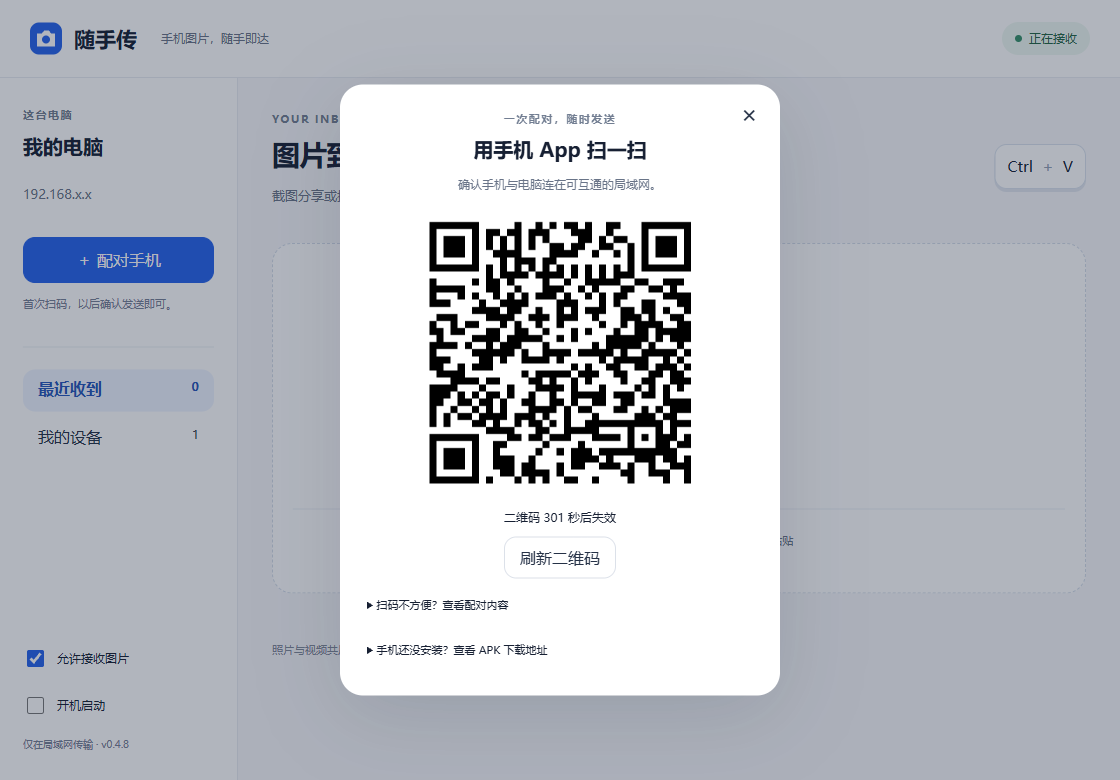
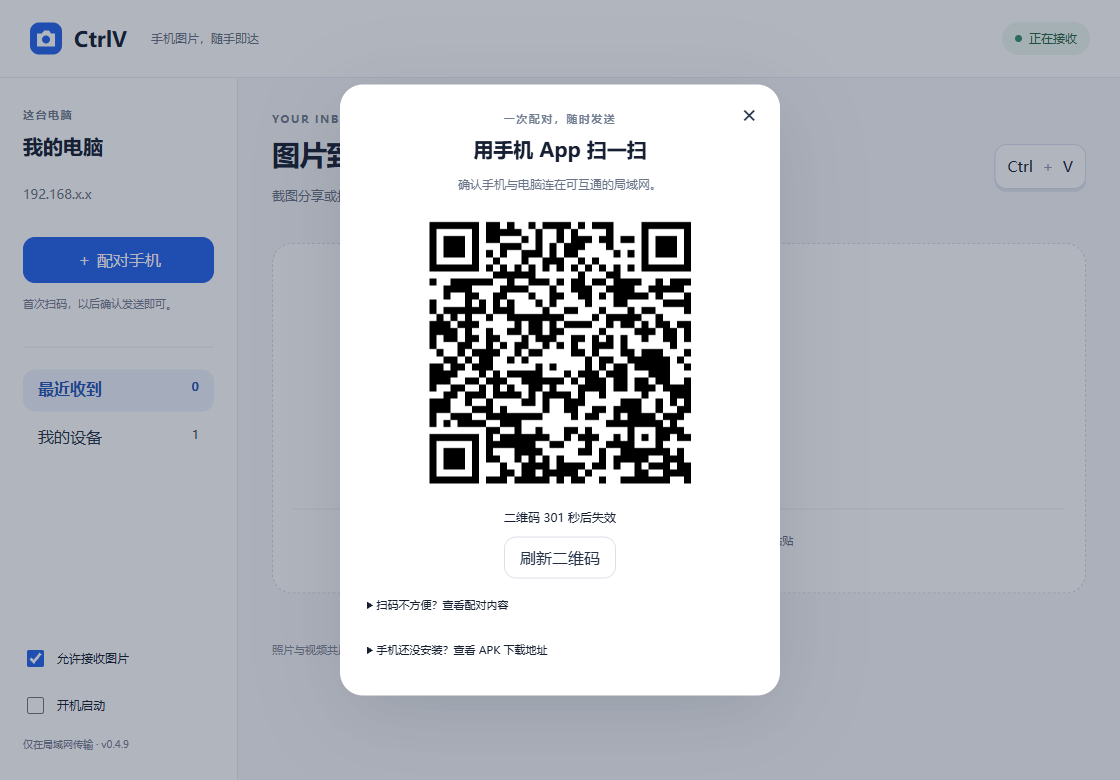
Rename Windows and Android to CtrlV for 0.4.9

Changed region(s): [[0.375, 0.2769, 0.625, 0.6462], [0.0625, 0.0308, 0.25, 0.0615]]

diff --git a/apps/desktop/src/main.ts b/apps/desktop/src/main.ts
@@ -11,7 +11,10 @@ import {Receiver, addresses, isPrivate} from './receiver';
 import type {DesktopState, Settings, Transfer} from './types';
 import {clipboardSequence, verifyClipboard, verifyClipboardFiles} from './windowsClipboard';
 
-app.setName('随手传');
+app.setName('CtrlV');
+// Keep the existing identity, pairing credentials and cache when the display name changes.
+app.setPath('userData', path.join(app.getPath('appData'), '随手传'));
+app.setAppUserModelId('cn.local.imagebridge');
 const testOutput = process.argv.find(value => value.startsWith('--self-test='))?.slice(12);
 const testDirectory = process.argv.find(value => value.startsWith('--data-dir='))?.slice(11);
 if (testDirectory) app.setPath('userData', path.resolve(testDirectory));
@@ -67,7 +70,7 @@ function secure(view: BrowserWindow) {
 }
 function showWindow() {
   if (!window) {
-    window = new BrowserWindow({...options(), width: 1060, height: 760, minWidth: 780, minHeight: 600, title: '随手传'});
+    window = new BrowserWindow({...options(), width: 1060, height: 760, minWidth: 780, minHeight: 600, title: 'CtrlV'});
     secure(window);
     window.on('close', event => {if (!quitting) {event.preventDefault(); window?.hide();}});
     void window.loadFile(path.join(__dirname, 'renderer/index.html'));
@@ -98,6 +101,15 @@ function getTransfer(id: unknown) {
   if (item?.cacheExpired || !item?.imagePath || !fs.existsSync(item.imagePath)) throw new Error('素材缓存已被清理');
   return item;
 }
+function updateLoginItem(openAtLogin: boolean) {
+  const legacyPath = path.join(path.dirname(process.execPath), '随手传.exe');
+  for (const item of app.getLoginItemSettings({path: legacyPath}).launchItems) {
+    if (item.scope === 'user' && path.resolve(item.path).toLowerCase() === legacyPath.toLowerCase()) {
+      app.setLoginItemSettings({openAtLogin: false, name: item.name});
+    }
+  }
+  app.setLoginItemSettings({openAtLogin, name: 'CtrlV', args: ['--hidden']});
+}
 function registerIpc() {
   const handlers: Record<string, (...args: unknown[]) => unknown> = {
     state,
@@ -112,7 +124,7 @@ function registerIpc() {
       if (typeof settings.receiving === 'boolean') store.state.settings.receiving = settings.receiving;
       if (typeof settings.launchAtLogin === 'boolean') {
         store.state.settings.launchAtLogin = settings.launchAtLogin;
-        app.setLoginItemSettings({openAtLogin: settings.launchAtLogin, args: ['--hidden']});
+        updateLoginItem(settings.launchAtLogin);
       }
       store.save(); updateTray(); changed();
     },
@@ -138,7 +150,7 @@ function registerIpc() {
         return;
       }
       const video = item.mime === 'video/mp4';
-      const result = await dialog.showSaveDialog({defaultPath: path.join(app.getPath(video ? 'videos' : 'pictures'), '随手传-' + new Date(item.createdAt).toISOString().replace(/[:.]/g, '-') + (video ? '.mp4' : '.png')), filters: [{name: video ? 'MP4 视频' : 'PNG 图片', extensions: [video ? 'mp4' : 'png']}]});
+      const result = await dialog.showSaveDialog({defaultPath: path.join(app.getPath(video ? 'videos' : 'pictures'), 'CtrlV-' + new Date(item.createdAt).toISOString().replace(/[:.]/g, '-') + (video ? '.mp4' : '.png')), filters: [{name: video ? 'MP4 视频' : 'PNG 图片', extensions: [video ? 'mp4' : 'png']}]});
       if (!result.canceled && result.filePath) {
         const current = getTransfer(id); const release = store.pin(current.requestId);
         try {await fs.promises.copyFile(current.imagePath!, result.filePath);} finally {release(); void store.prune().then(() => changed());}
@@ -153,29 +165,30 @@ function registerIpc() {
 }
 function updateTray() {
   if (!tray) return;
-  tray.setToolTip('随手传 · ' + (store.state.settings.receiving ? '正在接收' : '接收已暂停'));
+  tray.setToolTip('CtrlV · ' + (store.state.settings.receiving ? '正在接收' : '接收已暂停'));
   tray.setContextMenu(Menu.buildFromTemplate([
-    {label: '打开随手传', click: showWindow},
+    {label: '打开 CtrlV', click: showWindow},
     {label: '接收手机图片', type: 'checkbox', checked: store.state.settings.receiving, click: item => {store.state.settings.receiving = item.checked; store.save(); changed(); updateTray();}},
     {type: 'separator'}, {label: '退出', click: () => {quitting = true; app.quit();}},
   ]));
 }
 async function startDownload() {
-  const apk = app.isPackaged ? path.join(process.resourcesPath, 'ImageBridge.apk') : path.resolve(__dirname, '../../../release/android/ImageBridge.apk');
+  const apk = app.isPackaged ? path.join(process.resourcesPath, 'CtrlV.apk') : path.resolve(__dirname, '../../../release/android/CtrlV.apk');
   if (!fs.existsSync(apk)) return;
   const key = randomBytes(16).toString('hex');
   downloadServer = http.createServer((req, res) => {
-    if (!isPrivate(req.socket.remoteAddress ?? '') || req.url !== '/' + key + '/ImageBridge.apk' || req.method !== 'GET') {res.writeHead(404); res.end(); return;}
-    res.writeHead(200, {'Content-Type': 'application/vnd.android.package-archive', 'Content-Disposition': 'attachment; filename="ImageBridge.apk"', 'Content-Length': fs.statSync(apk).size});
+    if (!isPrivate(req.socket.remoteAddress ?? '') || req.url !== '/' + key + '/CtrlV.apk' || req.method !== 'GET') {res.writeHead(404); res.end(); return;}
+    res.writeHead(200, {'Content-Type': 'application/vnd.android.package-archive', 'Content-Disposition': 'attachment; filename="CtrlV.apk"', 'Content-Length': fs.statSync(apk).size});
     fs.createReadStream(apk).pipe(res);
   });
   await new Promise<void>(resolve => {downloadServer!.once('error', () => resolve()); downloadServer!.listen(43822, '0.0.0.0', resolve);});
   const address = addresses()[0];
-  if (address && downloadServer.listening) downloadUrl = `http://${address}:43822/${key}/ImageBridge.apk`;
+  if (address && downloadServer.listening) downloadUrl = `http://${address}:43822/${key}/CtrlV.apk`;
 }
 async function start() {
   if (!safeStorage.isEncryptionAvailable()) throw new Error('Windows 凭据加密不可用，无法安全保存配对信息');
   store = new Store(app.getPath('userData'), {seal: value => safeStorage.encryptString(value).toString('base64'), open: value => safeStorage.decryptString(Buffer.from(value, 'base64'))});
+  if (app.isPackaged && !testDirectory && !testOutput) updateLoginItem(store.state.settings.launchAtLogin);
   receiver = new Receiver(store, copyImage, changed, copyFiles);
   try {await receiver.start(testOutput ? 0 : 43821);} catch (error) {if (testOutput) throw error; await receiver.start(0); warning = '默认端口被占用，已使用备用端口；请刷新二维码。';}
   if (testOutput) {
@@ -204,6 +217,6 @@ if (single) void app.whenReady().then(start).catch(error => {
   fs.mkdirSync(app.getPath('userData'), {recursive: true});
   fs.appendFileSync(path.join(app.getPath('userData'), 'error.log'), new Date().toISOString() + ' ' + message + '\n');
   if (testOutput) fs.writeFileSync(testOutput, JSON.stringify({error: message}));
-  else dialog.showErrorBox('随手传启动失败', message);
+  else dialog.showErrorBox('CtrlV 启动失败', message);
   app.exit(1);
 });

diff --git a/apps/mobile/src/App.tsx b/apps/mobile/src/App.tsx
@@ -207,9 +207,9 @@ function Screen() {
         <ScreenCaptureButton disabled={busy || recording || modeMotion.transitioning} onPress={() => void run(async () => {if (!target) {setDevices(true); return;} await bridge.startScreenCapture();})}/>
       </View>}
       {photo && <View style={s.previewMeta}><Text style={s.metaTitle}>{video ? '视频' : '照片'}</Text><Text style={s.metaDetail}>{photo.width} × {photo.height} · {(photo.bytes / 1024 / 1024).toFixed(1)} MB{photo.durationMs ? ' · ' + (photo.durationMs / 1000).toFixed(1) + ' 秒' : ''}</Text></View>}
-      <Text style={s.footer}>{photo || reviewPhoto ? '随手传 · 仅局域网传输' : photos.length > 0 ? '可切换相册或截屏 · 这组照片会保留' : '左滑连拍 · 右滑拍摄'}</Text>
+      <Text style={s.footer}>{photo || reviewPhoto ? 'CtrlV · 仅局域网传输' : photos.length > 0 ? '可切换相册或截屏 · 这组照片会保留' : '左滑连拍 · 右滑拍摄'}</Text>
     </View>
-    <Modal visible={devices} transparent animationType="slide" onRequestClose={() => setDevices(false)}><View style={s.backdrop}><SafeAreaView style={s.sheet}><View style={s.sheetTop}><Text style={s.sheetTitle}>连接电脑</Text><Pressable onPress={() => setDevices(false)} style={s.topAction} accessibilityLabel="关闭设备面板"><Text style={s.cross}>×</Text></Pressable></View><Text style={s.sheetDescription}>电脑打开随手传，点击「配对手机」。手机扫描二维码后，确认电脑名称。</Text><ScrollView style={s.deviceList}>{state.devices.map(device => <View key={device.deviceId} style={s.deviceRow}><Pressable style={s.deviceChoice} onPress={() => void run(async () => {await bridge.selectDevice(device.deviceId); setDevices(false);})}><Text style={s.deviceName}>{device.name}{device.deviceId === state.defaultId ? '  ✓' : ''}</Text><Text style={s.deviceIp}>{device.addresses.join(' · ')}</Text></Pressable><Pressable style={s.removeButton} onPress={() => Alert.alert('移除电脑', '移除「' + device.name + '」？', [{text: '取消'}, {text: '移除', style: 'destructive', onPress: () => void run(async () => {await bridge.removeDevice(device.deviceId);})}])}><Text style={s.secondaryText}>移除</Text></Pressable></View>)}</ScrollView><Pressable style={s.pairButton} disabled={busy} onPress={() => void run(scan)}><Text style={s.pairText}>扫描配对二维码</Text></Pressable><Pressable style={s.settingsButton} onPress={() => setManual(!manual)}><Text style={s.secondaryText}>手动输入配对内容</Text></Pressable>{manual && <><TextInput style={s.input} value={uri} onChangeText={setUri} autoCapitalize="none" multiline placeholder="imagebridge://pair?data=…" placeholderTextColor="#777"/><Pressable style={s.pairButton} onPress={() => confirmPair(uri.trim())}><Text style={s.pairText}>确认配对</Text></Pressable></>}{!!error && <Text style={s.sheetError}>{error}</Text>}</SafeAreaView></View></Modal>
+    <Modal visible={devices} transparent animationType="slide" onRequestClose={() => setDevices(false)}><View style={s.backdrop}><SafeAreaView style={s.sheet}><View style={s.sheetTop}><Text style={s.sheetTitle}>连接电脑</Text><Pressable onPress={() => setDevices(false)} style={s.topAction} accessibilityLabel="关闭设备面板"><Text style={s.cross}>×</Text></Pressable></View><Text style={s.sheetDescription}>电脑打开CtrlV，点击「配对手机」。手机扫描二维码后，确认电脑名称。</Text><ScrollView style={s.deviceList}>{state.devices.map(device => <View key={device.deviceId} style={s.deviceRow}><Pressable style={s.deviceChoice} onPress={() => void run(async () => {await bridge.selectDevice(device.deviceId); setDevices(false);})}><Text style={s.deviceName}>{device.name}{device.deviceId === state.defaultId ? '  ✓' : ''}</Text><Text style={s.deviceIp}>{device.addresses.join(' · ')}</Text></Pressable><Pressable style={s.removeButton} onPress={() => Alert.alert('移除电脑', '移除「' + device.name + '」？', [{text: '取消'}, {text: '移除', style: 'destructive', onPress: () => void run(async () => {await bridge.removeDevice(device.deviceId);})}])}><Text style={s.secondaryText}>移除</Text></Pressable></View>)}</ScrollView><Pressable style={s.pairButton} disabled={busy} onPress={() => void run(scan)}><Text style={s.pairText}>扫描配对二维码</Text></Pressable><Pressable style={s.settingsButton} onPress={() => setManual(!manual)}><Text style={s.secondaryText}>手动输入配对内容</Text></Pressable>{manual && <><TextInput style={s.input} value={uri} onChangeText={setUri} autoCapitalize="none" multiline placeholder="imagebridge://pair?data=…" placeholderTextColor="#777"/><Pressable style={s.pairButton} onPress={() => confirmPair(uri.trim())}><Text style={s.pairText}>确认配对</Text></Pressable></>}{!!error && <Text style={s.sheetError}>{error}</Text>}</SafeAreaView></View></Modal>
   </SafeAreaView>;
 }
 export default function App() {return <SafeAreaProvider><Screen/></SafeAreaProvider>;}

diff --git a/apps/desktop/src/ui.tsx b/apps/desktop/src/ui.tsx
@@ -26,7 +26,7 @@ function App() {
       {item?.thumbnail && <img src={item.thumbnail} alt="刚收到的素材"/>}<div><strong><span className="dot"/>{item?.imageCount ? `${item.imageCount} 张图片已复制` : item?.mime === 'video/mp4' ? '视频文件已复制' : '图片已复制'}</strong><p>{item?.mime === 'video/mp4' ? '可粘贴到文件夹或支持视频的软件' : '回到输入框，按 Ctrl+V'}</p><small>{item?.mime === 'video/mp4' ? '点击播放视频' : '点击查看大图'}</small></div></div>;
   }
   return <div className="shell">
-    <header><div className="brand"><Mark/><strong>随手传</strong><span>手机图片，随手即达</span></div><span className={'status ' + (!state.settings.receiving ? 'paused' : '')}><i/>{state.settings.receiving ? '正在接收' : '接收已暂停'}</span></header>
+    <header><div className="brand"><Mark/><strong>CtrlV</strong><span>手机图片，随手即达</span></div><span className={'status ' + (!state.settings.receiving ? 'paused' : '')}><i/>{state.settings.receiving ? '正在接收' : '接收已暂停'}</span></header>
     <main className="layout"><aside>
       <div className="eyebrow">这台电脑</div><h2>{state.name}</h2><p className="muted">{state.addresses.join(' / ') || '尚未连接局域网'}</p>
       <button className="primary" disabled={busy} onClick={() => void action(async () => setPairing(await window.bridge.pair()))}>＋ 配对手机</button>
@@ -40,7 +40,7 @@ function App() {
       <div className="section-head"><div><div className="eyebrow">{tab === 'images' ? 'YOUR INBOX' : 'CONNECTED DEVICES'}</div><h1>{tab === 'images' ? '图片到了，直接粘贴。' : '只接收你的设备。'}</h1><p className="muted">{tab === 'images' ? '截图分享或拍照确认后，在支持图片的输入框按 Ctrl+V。' : '配对后无需逐张确认。移除设备后，需要重新扫码。'}</p></div><span className="shortcut">Ctrl <b>+</b> V</span></div>
       {(error || state.warning) && <div role="alert" className="alert">{error || state.warning}</div>}
       {notice && <div role="status" className="notice" onClick={() => setNotice('')}>{notice}</div>}
-      {tab === 'images' && !state.transfers.length && <div className="empty"><div className="empty-icon"><Mark/></div><h3>等待第一张图片</h3><p>手机系统截图 → 分享到「随手传」<br/>或者打开 App，拍一张照片。</p><div className="steps"><span>01 扫码配对</span><span>02 手机发送</span><span>03 电脑粘贴</span></div></div>}
+      {tab === 'images' && !state.transfers.length && <div className="empty"><div className="empty-icon"><Mark/></div><h3>等待第一张图片</h3><p>手机系统截图 → 分享到「CtrlV」<br/>或者打开 App，拍一张照片。</p><div className="steps"><span>01 扫码配对</span><span>02 手机发送</span><span>03 电脑粘贴</span></div></div>}
       {tab === 'images' && <div className="gallery">{state.transfers.map(item => <article key={item.requestId} className="photo"><button className="image-button" disabled={!item.thumbnail} onClick={() => void action(() => window.bridge.open(item.requestId))}>{item.thumbnail ? <img src={item.thumbnail} alt={`${item.clientName} 发来的图片`}/> : <span>{labels[item.status]}</span>}</button><div className="photo-info"><strong>{item.imageCount ? `${item.imageCount} 张图集 · ` : ''}{labels[item.status]}</strong><span>{new Date(item.createdAt).toLocaleTimeString('zh-CN', {hour: '2-digit', minute: '2-digit'})}</span></div><p>{item.clientName} · {item.imageCount ? '一次 Ctrl+V 粘贴整组' : item.width ? `${item.width} × ${item.height}` : '等待处理'}</p>{item.error && <p className="item-error">{item.error}</p>}<div className="photo-actions"><button disabled={busy || !item.imagePath} onClick={() => void action(() => window.bridge.copy(item.requestId), '已重新复制，可以粘贴了')}>重新复制</button><button disabled={busy || !item.imagePath} onClick={() => void action(() => window.bridge.save(item.requestId))}>另存为</button></div></article>)}</div>}
       {tab === 'devices' && <div className="devices">{!state.devices.length && <div className="empty"><h3>还没有配对手机</h3><p>点击左侧「配对手机」，用 App 扫描二维码。</p></div>}{state.devices.map(device => <div className="device" key={device.clientId}><div className="device-icon">▯</div><div><strong>{device.name}</strong><p>配对于 {new Date(device.pairedAt).toLocaleDateString('zh-CN')}</p></div><button disabled={busy} onClick={() => {if (confirm(`移除 ${device.name}？之后需要重新扫码。`)) void action(() => window.bridge.revoke(device.clientId));}}>移除</button></div>)}</div>}
       <footer>照片与视频共用 100 MB 临时缓存 · 空间不足时自动清理最早收到的素材</footer>

diff --git a/apps/mobile/android/app/src/main/java/cn/local/imagebridge/ScreenCaptureService.kt b/apps/mobile/android/app/src/main/java/cn/local/imagebridge/ScreenCaptureService.kt
@@ -62,7 +62,7 @@ class ScreenCaptureService : Service() {
         val stop = PendingIntent.getService(this, 7, Intent(this, ScreenCaptureService::class.java).setAction("STOP"), PendingIntent.FLAG_UPDATE_CURRENT or PendingIntent.FLAG_IMMUTABLE)
         val recording = screenRecorder != null
         val seconds = ((SystemClock.elapsedRealtime() - recordStarted) / 1000).coerceIn(0, 30)
-        return Notification.Builder(this, "capture").setSmallIcon(android.R.drawable.ic_menu_camera).setContentTitle(if (recording) "随手传 · 录屏 ${seconds}s / 30s" else "随手传 · 连续截屏")
+        return Notification.Builder(this, "capture").setSmallIcon(android.R.drawable.ic_menu_camera).setContentTitle(if (recording) "CtrlV · 录屏 ${seconds}s / 30s" else "CtrlV · 连续截屏")
             .setContentText(if (recording) "点悬浮「停止」可结束 · 完成后先预览" else "已截 ${collected.size} 张 · 点悬浮「截一张」，查看后确认发送")
             .setContentIntent(stop).setOngoing(true).addAction(Notification.Action.Builder(null, "结束并预览", stop).build()).build()
     }

diff --git a/apps/desktop/src/index.html b/apps/desktop/src/index.html
@@ -1,2 +1,2 @@
 <!doctype html>
-<html lang="zh-CN"><head><meta charset="UTF-8"><meta name="viewport" content="width=device-width, initial-scale=1.0"><meta http-equiv="Content-Security-Policy" content="default-src 'none'; script-src 'self'; style-src 'self'; img-src 'self' data:; font-src 'self'; connect-src 'none'"><title>随手传</title><link rel="stylesheet" href="ui.css"></head><body><div id="root"></div><script src="ui.js"></script></body></html>
+<html lang="zh-CN"><head><meta charset="UTF-8"><meta name="viewport" content="width=device-width, initial-scale=1.0"><meta http-equiv="Content-Security-Policy" content="default-src 'none'; script-src 'self'; style-src 'self'; img-src 'self' data:; font-src 'self'; connect-src 'none'"><title>CtrlV</title><link rel="stylesheet" href="ui.css"></head><body><div id="root"></div><script src="ui.js"></script></body></html>

diff --git a/apps/mobile/android/app/src/main/java/cn/local/imagebridge/BridgeModule.kt b/apps/mobile/android/app/src/main/java/cn/local/imagebridge/BridgeModule.kt
@@ -71,7 +71,7 @@ class BridgeModule(private val context: ReactApplicationContext) : ReactContextB
     }
     @ReactMethod fun pair(uriText: String, promise: Promise) = work(promise) {
         val uri = Uri.parse(uriText)
-        require(uri.scheme == "imagebridge" && uri.host == "pair") { "请扫描随手传电脑端的配对二维码" }
+        require(uri.scheme == "imagebridge" && uri.host == "pair") { "请扫描CtrlV电脑端的配对二维码" }
         val invitation = JSONObject(uri.getQueryParameter("data") ?: "{}")
         require(invitation.getInt("v") == 1 && invitation.getLong("expiresAt") > System.currentTimeMillis()) { "二维码已过期，请在电脑端刷新" }
         val data = storage.read()

diff --git a/apps/mobile/android/app/src/main/java/cn/local/imagebridge/ScreenCaptureActivity.kt b/apps/mobile/android/app/src/main/java/cn/local/imagebridge/ScreenCaptureActivity.kt
@@ -27,7 +27,7 @@ class ScreenCaptureActivity : Activity() {
     }
     private fun requestOverlay() {
         if (!Settings.canDrawOverlays(this)) {
-            Toast.makeText(this, "请允许随手传显示悬浮按钮", Toast.LENGTH_LONG).show()
+            Toast.makeText(this, "请允许CtrlV显示悬浮按钮", Toast.LENGTH_LONG).show()
             startActivityForResult(Intent(Settings.ACTION_MANAGE_OVERLAY_PERMISSION, Uri.parse("package:$packageName")), 1)
         } else requestCapture()
     }

diff --git a/README.md b/README.md
@@ -1,10 +1,12 @@
-# 随手传 · 手机素材直达电脑剪贴板
+# CtrlV · 手机素材直达电脑剪贴板
 
-<img src="apps/mobile/android/app/src/main/res/mipmap-xxxhdpi/ic_launcher.png" alt="随手传相机图标" width="88" />
+<img src="apps/mobile/android/app/src/main/res/mipmap-xxxhdpi/ic_launcher.png" alt="CtrlV相机图标" width="88" />
 
 在 Android 手机上拍照、选图、连续截屏或录制短视频，通过局域网传到 Windows。电脑提示「已复制」后，按 **Ctrl+V** 就能把素材放进支持图片或文件的 AI 输入框、文档或其他软件。
 
-**当前版本：0.4.8。Windows 托盘接收端 + Android App，无需业务云服务器。**
+**当前版本：0.4.9。Windows 托盘接收端 + Android App，无需业务云服务器。**
+
+**名称约定：Android 与 Windows 为 CtrlV；未来 iPhone 版计划使用 CommandV，目前尚未上架 App Store。** 0.4.9 从原名「随手传」升级，沿用原配对和缓存。
 
 [下载安装包](https://github.com/Flechazo-YQ/suishouchuan/releases/latest) · [一步步使用与场景示例](docs/USER-GUIDE.md) · [逐版更新说明](CHANGELOG.md) · [开发与构建](docs/DEVELOPMENT.md)
 
@@ -16,10 +18,12 @@
 
 | 设备 | 下载文件 | 安装后做什么 |
 | --- | --- | --- |
-| Windows x64 电脑 | [ImageBridge-Setup-0.4.8.exe](https://github.com/Flechazo-YQ/suishouchuan/releases/download/v0.4.8/ImageBridge-Setup-0.4.8.exe) | 安装并打开「随手传」，留在系统托盘 |
-| Android arm64 手机 | [ImageBridge-0.4.8-android-arm64.apk](https://github.com/Flechazo-YQ/suishouchuan/releases/download/v0.4.8/ImageBridge-0.4.8-android-arm64.apk) | 用手机浏览器下载，按系统提示允许该来源安装 |
+| Windows x64 电脑 | [CtrlV-Setup-0.4.9.exe](https://github.com/Flechazo-YQ/suishouchuan/releases/download/v0.4.9/CtrlV-Setup-0.4.9.exe) | 安装并打开「CtrlV」，留在系统托盘 |
+| Android arm64 手机 | [CtrlV-0.4.9-android-arm64.apk](https://github.com/Flechazo-YQ/suishouchuan/releases/download/v0.4.9/CtrlV-0.4.9-android-arm64.apk) | 用手机浏览器下载，按系统提示允许该来源安装 |
 
-电脑安装完成后打开「随手传」，保持托盘运行；手机安装完成后打开 App，按提示允许相机权限。让两端连接到可互通的局域网，例如连接同一个家庭 Wi-Fi。电脑端应显示绿色的「正在接收」。
+电脑安装完成后打开「CtrlV」，保持托盘运行；手机安装完成后打开 App，按提示允许相机权限。让两端连接到可互通的局域网，例如连接同一个家庭 Wi-Fi。电脑端应显示绿色的「正在接收」。
+
+从「随手传」升级可直接覆盖安装，不需要卸载或重新配对。Windows 若弹出防火墙提示，允许 CtrlV 在当前局域网通信；旧规则只绑定旧程序文件，改名后需要允许新程序。
 
 Windows 安装包也内置 APK，可通过电脑配对面板中的局域网下载地址安装。发布页提供 SHA-256 校验文件；下载源码 ZIP 不是安装软件。
 
@@ -34,7 +38,7 @@ Android 最低声明支持 Android 8（API 26），当前真机验收设备为 A
 **电脑点击「配对手机」 → 手机点「扫描配对二维码」**（点击图片可查看大图）：
 
 <p>
-  <a href="docs/images/desktop-pairing.png"><img src="docs/images/desktop-pairing.png" alt="Windows 随手传的配对二维码窗口，左侧为配对手机按钮" width="520" /></a>
+  <a href="docs/images/desktop-pairing.png"><img src="docs/images/desktop-pairing.png" alt="Windows CtrlV的配对二维码窗口，左侧为配对手机按钮" width="520" /></a>
   <a href="docs/images/phone-pairing.png"><img src="docs/images/phone-pairing.png" alt="Android 连接电脑面板，下方为扫描配对二维码按钮，设备信息已隐藏" width="300" /></a>
 </p>
 
@@ -71,30 +75,30 @@ Android 最低声明支持 Android 8（API 26），当前真机验收设备为 A
 
 <img src="docs/images/ai-paste.png" alt="Codex 输入框中已经出现多张独立图片附件，当前可见编号01至06的一部分" width="800" />
 
-单张照片同样按一次 Ctrl+V；给 Word/WPS 配图时，把光标放在文档需要插图的位置再粘贴。若目标软件不接受图片粘贴，可在电脑端点「另存为」，再使用它的插入图片功能。随手传不会自动提交 AI 对话。
+单张照片同样按一次 Ctrl+V；给 Word/WPS 配图时，把光标放在文档需要插图的位置再粘贴。若目标软件不接受图片粘贴，可在电脑端点「另存为」，再使用它的插入图片功能。CtrlV不会自动提交 AI 对话。
 
-<sub>手机为 0.4.8 真机截图，私人设备信息已按授权裁剪或遮挡；电脑为 0.4.8 界面搭配演示数据；Codex 为实际粘贴验收截图的输入区。详见 [截图说明](docs/images/README.md)。</sub>
+<sub>手机为 0.4.8 真机截图，私人设备信息已按授权裁剪或遮挡；电脑为 0.4.9 界面搭配演示数据；Codex 为实际粘贴验收截图的输入区。详见 [截图说明](docs/images/README.md)。</sub>
 
 ## 原来怎么做，用了以后怎么做
 
-| 场景 | 原来的常见流程 | 用随手传后的流程 |
+| 场景 | 原来的常见流程 | 用CtrlV后的流程 |
 | --- | --- | --- |
-| 拍实物照片，让 AI 分析 | 手机拍照 → 微信文件传输助手 → 电脑微信打开图片 → 复制 → 粘贴到 AI | 随手传拍照 → 预览并确认上传 → 电脑 AI 输入框 Ctrl+V |
+| 拍实物照片，让 AI 分析 | 手机拍照 → 微信文件传输助手 → 电脑微信打开图片 → 复制 → 粘贴到 AI | CtrlV拍照 → 预览并确认上传 → 电脑 AI 输入框 Ctrl+V |
 | 截几个小程序页面，让 AI 对照布局 | 每页系统截图 → 整理相册 → 传到电脑 → 逐张添加附件 | 开启悬浮截屏 → 每页点「截一张」→ 查看整组 →「确认并发送」→ Ctrl+V |
 | 把已有的 10 张图发给 AI | 相册挑图 → 发微信 → 电脑下载整理 → 添加多个附件 | 左下相册图标 → 选 1–10 张并确认 → 自动传送 → Ctrl+V 粘贴独立图片 |
 | 给 Word/WPS 文档配一张图片 | 拍照 → 发微信 → 电脑另存为 → 文档插入图片 | 单张拍摄并上传 → 文档定位光标 → Ctrl+V；不接受图片粘贴时另存为后插入 |
 
-例如你在做商品页面：连续截下「首页、商品详情、下单页」，整组发到电脑，再在 AI 里粘贴三张图片，输入「请按这三个页面检查按钮间距和布局一致性」。随手传负责传图；提问内容和是否发送给 AI 由你决定。
+例如你在做商品页面：连续截下「首页、商品详情、下单页」，整组发到电脑，再在 AI 里粘贴三张图片，输入「请按这三个页面检查按钮间距和布局一致性」。CtrlV负责传图；提问内容和是否发送给 AI 由你决定。
 
 ## 手机上的入口
 
 - **拍摄**：短按快门拍照；长按录像，松手结束，最长 30 秒。预览左上「×」重拍，右上「✓」确认上传。
-- **相册**：快门左边的图片图标。选择 1–10 张，确认选择后自动发送；系统相册多选后分享给「随手传」也可用。
+- **相册**：快门左边的图片图标。选择 1–10 张，确认选择后自动发送；系统相册多选后分享给「CtrlV」也可用。
 - **连拍**：点模式标签，或向左滑动取景画面。连续点按快门，最多 10 张；点缩略图或「查看 N 张」预览，右上「确认并发送」一次完成。
 - **截屏 / 录屏**：快门右边的图标。授权后点浮窗「截一张」收集截图，「查看图片」回 App 预览。录屏有计时和停止按钮，最长 30 秒。
 - **连拍中临时做别的事**：已有照片也能进入相册或截屏/录屏。原连拍组保留，新素材单独处理；完成后恢复原组，也可点「待发 N 张 · 查看」来回切换。
 
-系统截图与随手传浮窗是两条入口：手机系统截图不会自动加入随手传图集。连续截多个页面请用浮窗「截一张」；发送已有系统截图请用相册选择或系统分享。
+系统截图与CtrlV浮窗是两条入口：手机系统截图不会自动加入CtrlV图集。连续截多个页面请用浮窗「截一张」；发送已有系统截图请用相册选择或系统分享。
 
 ## 到电脑后怎么粘贴
 
@@ -112,12 +116,14 @@ Android 最低声明支持 Android 8（API 26），当前真机验收设备为 A
 
 - 手机不向系统相册保存新拍素材。待发文件暂存在 App 私有目录，上传成功或明确放弃后删除；来源相册原图不受影响。
 - 多组待发素材只保留在当前运行会话中，**不是永久相册**；进程重启会清理遗留文件。失败供手动重试，不在离线很久后突然自动补发。
-- 电脑照片、视频和缩略图共用 **100 MB（100,000,000 字节）**，超限后在后台按接收先后删除旧素材。图集整组淘汰，当前随手传复制的文件受到保护。
+- 电脑照片、视频和缩略图共用 **100 MB（100,000,000 字节）**，超限后在后台按接收先后删除旧素材。图集整组淘汰，当前CtrlV复制的文件受到保护。
 - 单图最多 32 MiB、6400 万像素；每组最多 10 张且处理前后不超过 100 MB；录像/录屏最多 30 秒。
 
 例如已缓存 99.27 MB，再收到 1.5 MB，会从最早收到的素材开始清理，直到回到预算内。新素材先校验和写入剪贴板，再后台清理；在途文件、解码临时文件和文件占用可能造成短暂额外空间。重要素材请另存为，缓存不作为备份。[完整缓存规则](docs/CACHE-POLICY.md)
 
 ## 当前验证与边界
+
+0.4.9 已通过 27 项自动化测试、两端类型检查和安装包一致性检查。Windows 已覆盖安装，验证原配对/证书/设置/缓存保留、开机启动路径更新、内置 APK 下载及图片/十图文件剪贴板；Android 发行签名与旧版一致，当前设备调试连接恢复后继续覆盖安装验收。
 
 0.4.8 已实际安装验证：拍摄、图集、相册独立发送、连续截图、录屏主动停止、连拍保留与切换、电脑文件剪贴板和手机临时文件清理。27 项自动化测试通过。30 秒录屏上限在前版实机通过，本版未修改该原生逻辑。
 

diff --git a/docs/USER-GUIDE.md b/docs/USER-GUIDE.md
@@ -1,11 +1,11 @@
-# 随手传使用指南
+# CtrlV使用指南
 
-按 0.4.8 的按钮与行为说明。两端安装包在 [GitHub Releases](https://github.com/Flechazo-YQ/suishouchuan/releases/latest)。
+按 0.4.9 的按钮与行为说明。两端安装包在 [GitHub Releases](https://github.com/Flechazo-YQ/suishouchuan/releases/latest)。
 
 ## 1. 第一次安装和配对
 
-1. 电脑安装 `ImageBridge-Setup-0.4.8.exe`，打开随手传。关主窗口后仍在系统托盘接收；选择退出则停止接收。
-2. 手机浏览器下载 `ImageBridge-0.4.8-android-arm64.apk`，按 Android 提示允许当前来源安装。
+1. 电脑安装 `CtrlV-Setup-0.4.9.exe`，打开CtrlV。关主窗口后仍在系统托盘接收；选择退出则停止接收。
+2. 手机浏览器下载 `CtrlV-0.4.9-android-arm64.apk`，按 Android 提示允许当前来源安装。
 3. 两端连接同一可互通的局域网。电脑用网线、手机用 Wi-Fi 也可以，前提是路由器允许两者通信。
 4. 电脑点「配对手机」，手机点顶部设备栏 →「扫描配对二维码」。
 5. 扫描后核对电脑名称并确认。顶部显示电脑名称或地址，以后默认发给这台电脑。
@@ -22,12 +22,12 @@
 
 **现在的流程**：
 
-1. 手机打开随手传，选择「拍摄」，对准物品，短按快门。
+1. 手机打开CtrlV，选择「拍摄」，对准物品，短按快门。
 2. 大图预览中，不满意点左上「×」重拍；满意点右上「✓」，确认上传到显示的电脑。
 3. 等电脑提示「已复制」，在支持图片的 AI 输入框按 Ctrl+V。
 4. 输入「请描述这件物品的外观，帮我写三条商品介绍」，检查附件后自己发送对话。
 
-随手传只负责手机到电脑的局域网传输。你在 AI 软件中提交之后，才进入该软件自己的处理流程。
+CtrlV只负责手机到电脑的局域网传输。你在 AI 软件中提交之后，才进入该软件自己的处理流程。
 
 ## 3. 例子：连续拍 3 张，让 AI 看不同角度
 
@@ -52,7 +52,7 @@
 1. 点快门右侧「截屏 / 录屏」，允许悬浮窗与本次屏幕采集。
 2. 打开小程序，停在第一页，点悬浮「截一张」。成功会闪屏并出现缩略图。
 3. 切到第二页，等画面稳定后再截；第三页重复。
-4. 点「查看图片 (3)」返回随手传预览，检查并移除不需要的图。
+4. 点「查看图片 (3)」返回CtrlV预览，检查并移除不需要的图。
 5. 点右上「确认并发送」，电脑 Ctrl+V；例如提问「请检查这三个页面的布局一致性」。
 
 此入口不调用小米系统截图按钮，不走系统截图面板。手机自带截图快捷键不会自动加入这组；已有系统截图可从相册选择或系统分享发送。
@@ -65,7 +65,7 @@
 2. 确认选择后自动传到默认电脑，不用在 App 再点上传。
 3. 整组已复制后，在兼容输入框按一次 Ctrl+V。
 
-也可从系统相册多选 → 分享 → 随手传。系统单图分享先进入单张预览确认，系统多图分享按图集自动发送；来源相册原图不会被删除。
+也可从系统相册多选 → 分享 → CtrlV。系统单图分享先进入单张预览确认，系统多图分享按图集自动发送；来源相册原图不会被删除。
 
 图集是独立图片文件，不拼长图、不压缩打包。一些输入框只接受单图或不接受文件粘贴，可以在电脑接收记录另存为，再用目标软件「添加附件」。
 
@@ -73,9 +73,9 @@
 
 **原来的流程**：拍照 → 发微信 → 电脑保存到文件夹 → 文档插入图片 → 找到文件。
 
-**现在的单图流程**：随手传「拍摄」模式拍一张 → 确认上传 → 文档定位光标 → Ctrl+V。
+**现在的单图流程**：CtrlV「拍摄」模式拍一张 → 确认上传 → 文档定位光标 → Ctrl+V。
 
-支持系统图片剪贴板的位置可以直接插图。如果该位置不接受图片，或发送的是相册/连拍图集（文件剪贴板），先在电脑随手传另存为，再用文档「插入 → 图片」。文档里的最终图片不再依赖随手传缓存。Word/WPS 的多文件处理未作为全版本兼容承诺。
+支持系统图片剪贴板的位置可以直接插图。如果该位置不接受图片，或发送的是相册/连拍图集（文件剪贴板），先在电脑CtrlV另存为，再用文档「插入 → 图片」。文档里的最终图片不再依赖CtrlV缓存。Word/WPS 的多文件处理未作为全版本兼容承诺。
 
 ## 7. 连拍到一半，临时选图或录屏
 

diff --git a/docs/DEVELOPMENT.md b/docs/DEVELOPMENT.md
@@ -50,16 +50,18 @@ Windows中文项目路径可能影响Android原生构建，现有脚本同步到
 
 ### 产物与验证
 
-- Android：`release/android/ImageBridge.apk`。
-- Windows：`release/windows/ImageBridge-Setup-<版本>.exe`。
+- Android：`release/android/CtrlV.apk`。
+- Windows：`release/windows/CtrlV-Setup-<版本>.exe`。
 - `verify-release.cjs`校验构建主进程、内置APK、媒体工具/许可证和原生剪贴板依赖是否一致，生成本地manifest。
 - 安装后另外核对运行版本、配对与真实发送；不能仅凭构建通过就判定交付成功。
 
[2 lines of base64/hex data omitted]
 
 ## 数据与边界
 
-Windows程序安装到`%LOCALAPPDATA%\Programs\ImageBridge`，配置和媒体缓存位于`%APPDATA%\随手传`。这些运行数据不属于源码，不能公开上传。手机私有outbox只暂存待发素材；详情见[缓存规则](CACHE-POLICY.md)。
+Windows程序安装到`%LOCALAPPDATA%\Programs\ImageBridge`，配置和媒体缓存位于`%APPDATA%\随手传`。0.4.9 将显示名与安装包名称改为 CtrlV，保留该数据目录、安装身份、Android applicationId 和协议标识，避免更新丢失配对；开机启动项改为新可执行文件。未来 iPhone 版计划名为 CommandV，当前仓库不含 iOS 发布包。
+
+这些运行数据不属于源码，不能公开上传。手机私有outbox只暂存待发素材；详情见[缓存规则](CACHE-POLICY.md)。
 
 公开源码以0.4.8已验收代码作为首次基线，早期演进见[CHANGELOG](../CHANGELOG.md)。本机配对配置、签名私钥、私人截图和包含设备信息的调试验收记录不随仓库发布。GitHub首次发布时间与各版本的本地开发日期分别记录，不补造早期发布记录。
 

diff --git a/docs/images/README.md b/docs/images/README.md
@@ -8,10 +8,10 @@
 | `phone-pairing.png` | 同一真机的「连接电脑」面板局部；遮挡设备信息，保留扫描入口和操作说明 |
 | `phone-preview.png` | 同一真机新拍照片的实际预览；裁去系统状态栏，保留重拍与确认按钮 |
 | `phone-confirm.png` | 同一真机的实际上传确认弹窗局部；遮挡目标电脑名称 |
-| `desktop-pairing.png` | 使用未修改的 0.4.8 电脑端界面渲染，搭配演示设备名、地址和无配对权限的演示二维码 |
+| `desktop-pairing.png` | 使用未修改的 0.4.9 电脑端界面渲染，搭配演示设备名、地址和无配对权限的演示二维码 |
 | `desktop-received.png` | 同一电脑端界面使用演示接收记录展示「已复制」状态；照片取自本次手机预览，不代表本轮新增传输测试 |
 | `ai-paste.png` | 既有 Codex 多图粘贴实测截图，仅裁出输入框；保留真实附件显示，不包含侧栏和对话正文 |
 
 用户明确选择使用本地裁剪、遮挡后公开。手机界面的按钮与文字没有生成式重绘；设备遮挡块属于文档隐私处理，不是软件本身的按钮。电脑截图用于公开展示，演示数据不会修改真实电脑的配对、接收记录或剪贴板。
 
-**不要扫描文档中的二维码。** 请在自己电脑上打开随手传，点击「配对手机」获得当前有效二维码。实际电脑名称、IP、拍摄内容、接收时间和 AI 客户端布局会因使用环境不同而变化。
+**不要扫描文档中的二维码。** 请在自己电脑上打开 CtrlV，点击「配对手机」获得当前有效二维码。实际电脑名称、IP、拍摄内容、接收时间和 AI 客户端布局会因使用环境不同而变化。

diff --git a/CHANGELOG.md b/CHANGELOG.md
@@ -1,6 +1,6 @@
 # 版本演进
 
-按实际开发顺序说明每一步解决什么问题。推荐使用 **0.4.8**。这是首次在 GitHub 发布安装包；早期版本是本地开发、安装或验证阶段，不代表当时已在 GitHub 发布，也不建议安装已知有问题的旧版。
+按实际开发顺序说明每一步解决什么问题。推荐使用 **0.4.9**。0.4.8 是首次在 GitHub 发布安装包；早期版本是本地开发、安装或验证阶段，不代表当时已在 GitHub 发布，也不建议安装已知有问题的旧版。
 
 ## 0.1.0 · 2026-11-14 · 跑通手机到电脑
 
@@ -103,3 +103,12 @@
 ## 后续范围
 
 iPhone App与分享扩展、跨公网传输、自动粘贴、多电脑同时接收尚未实现。待发素材属于当前会话，不是永久相册或云备份。
+
+## 0.4.9 · 2026-11-17 · Android / Windows 改名 CtrlV
+
+- Android 桌面名称、系统分享入口、采集通知与引导文案改为 CtrlV。
+- Windows 窗口、托盘、快捷方式、安装包与内置 APK 改为 CtrlV。
+- 沿用原 Android 包名和发行签名、Windows 安装身份与数据目录，保留原配对；开机启动改用新程序路径。
+- APK 文件名为 `CtrlV-0.4.9-android-arm64.apk`，Windows 安装包为 `CtrlV-Setup-0.4.9.exe`。
+- iPhone 版计划使用 CommandV；此次不包含 iOS 安装包或 App Store 上架。
+- 拍摄、图集、截屏录屏、100 MB 混合缓存与 30 秒录制上限保持原行为。
